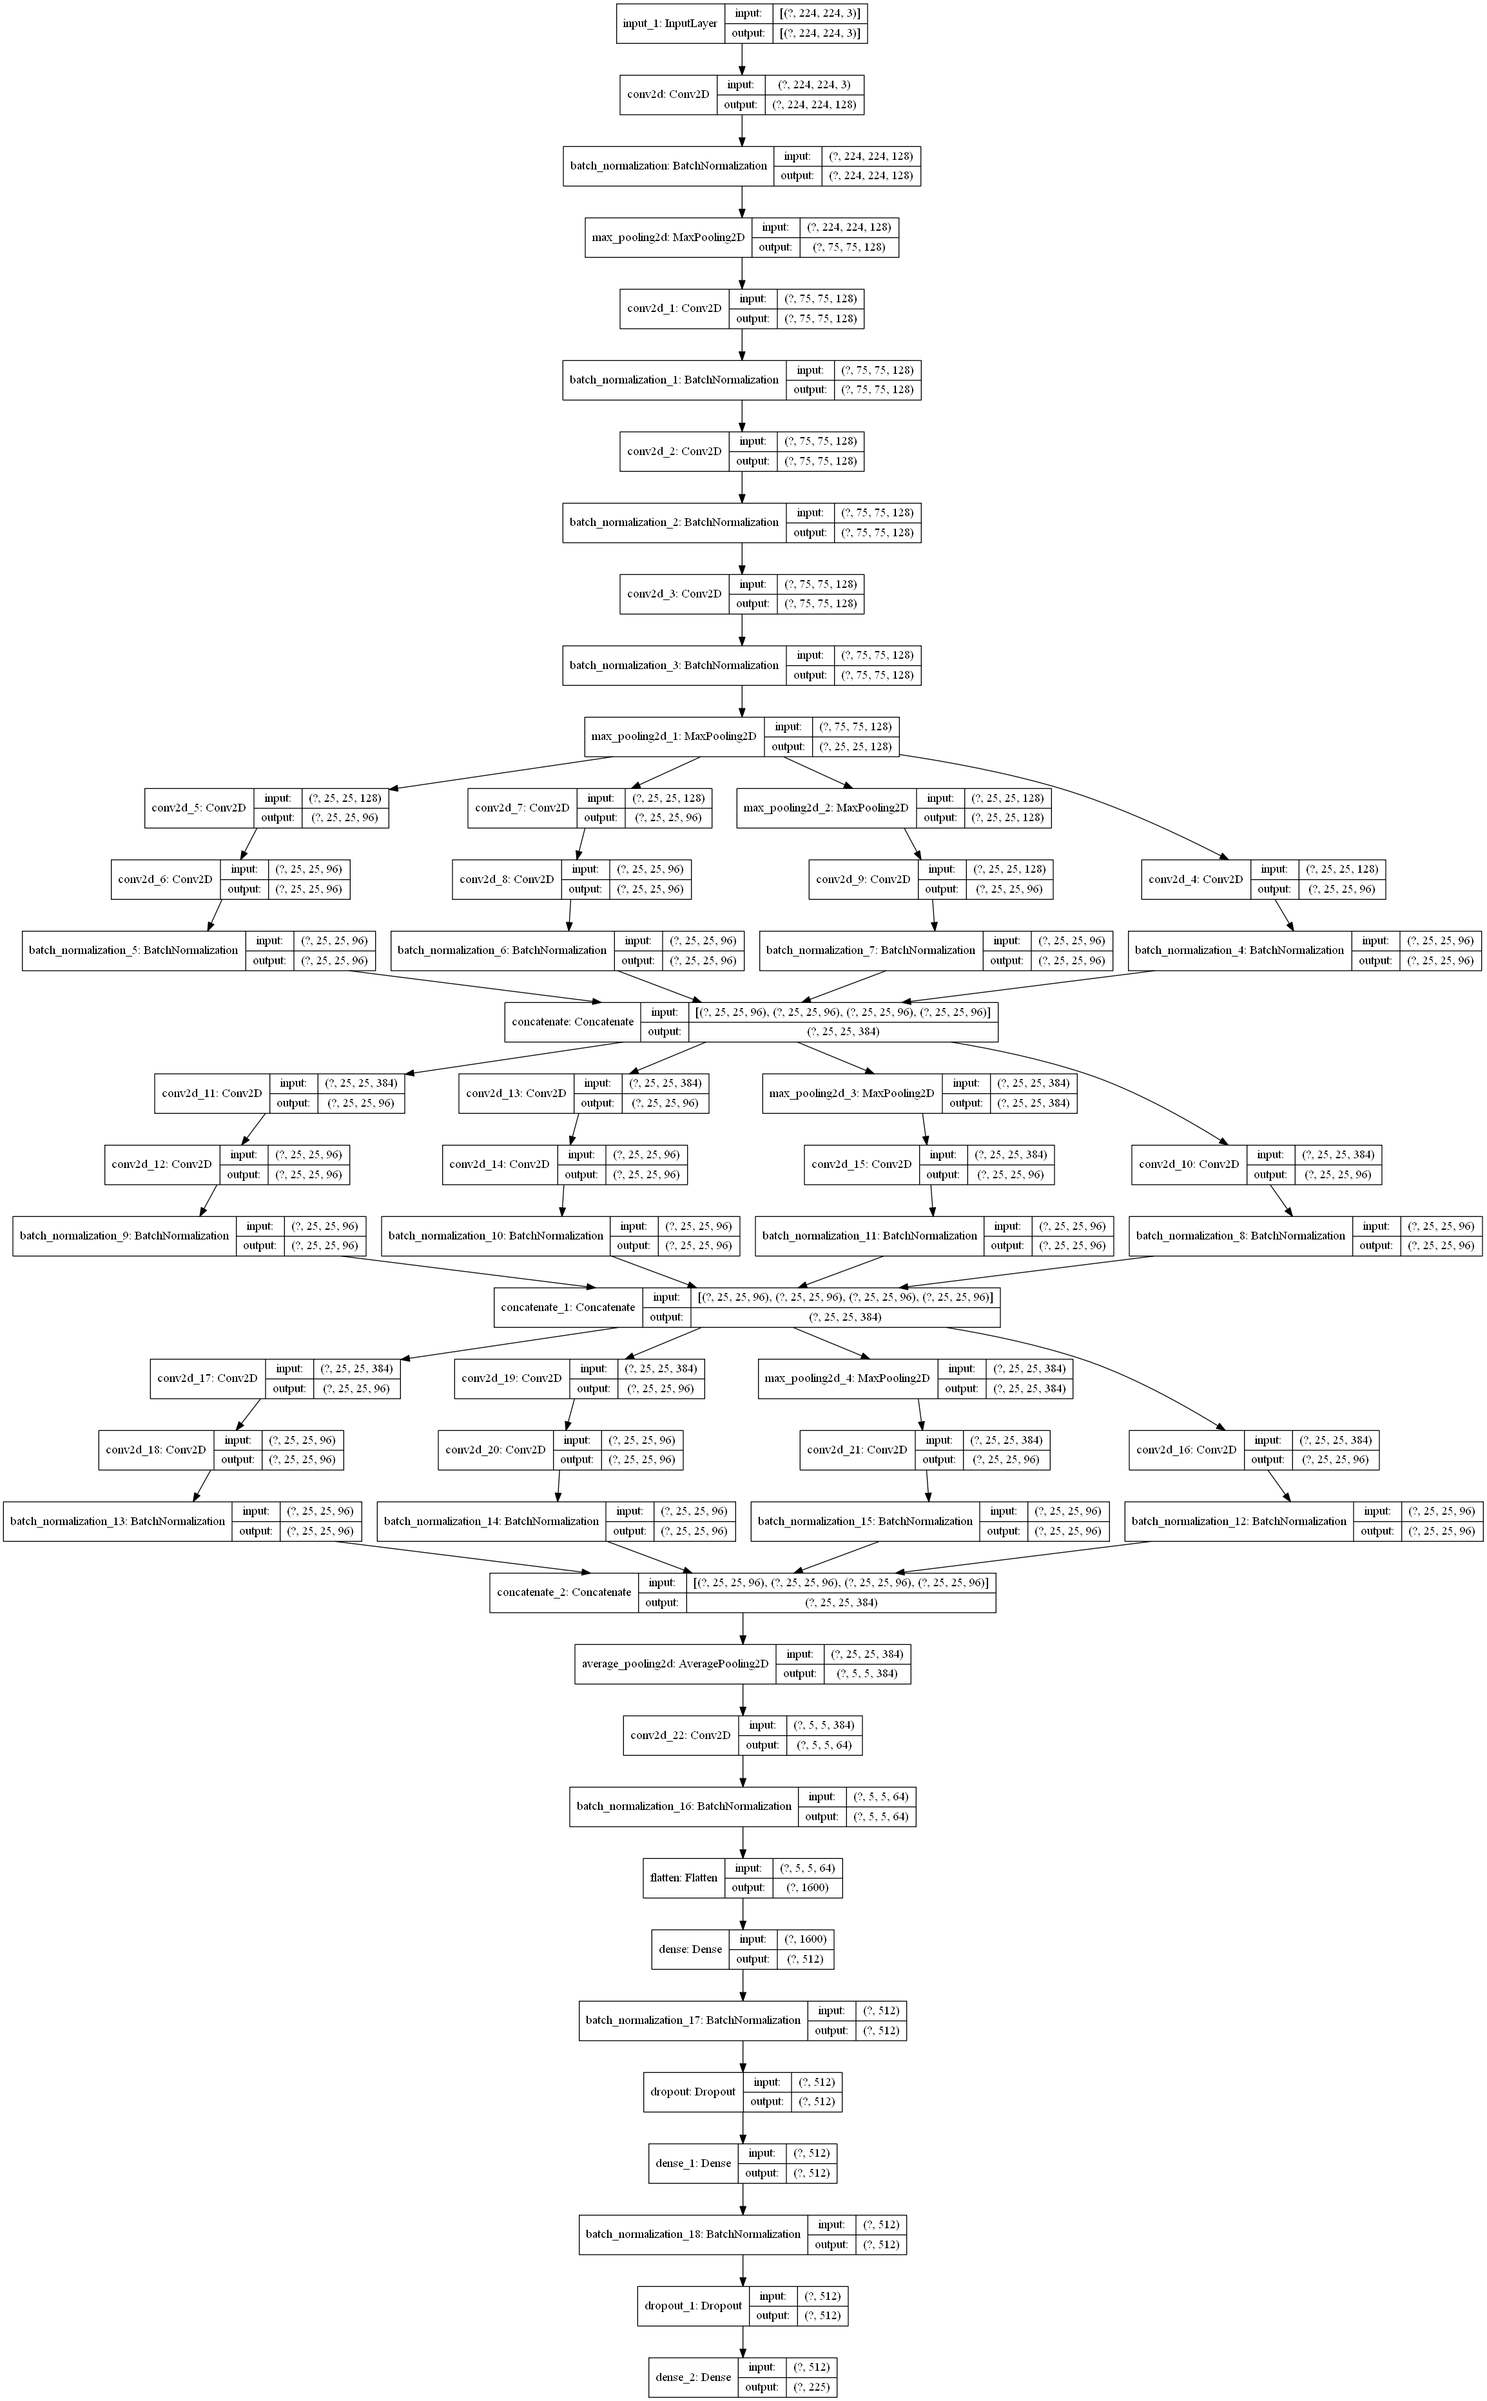
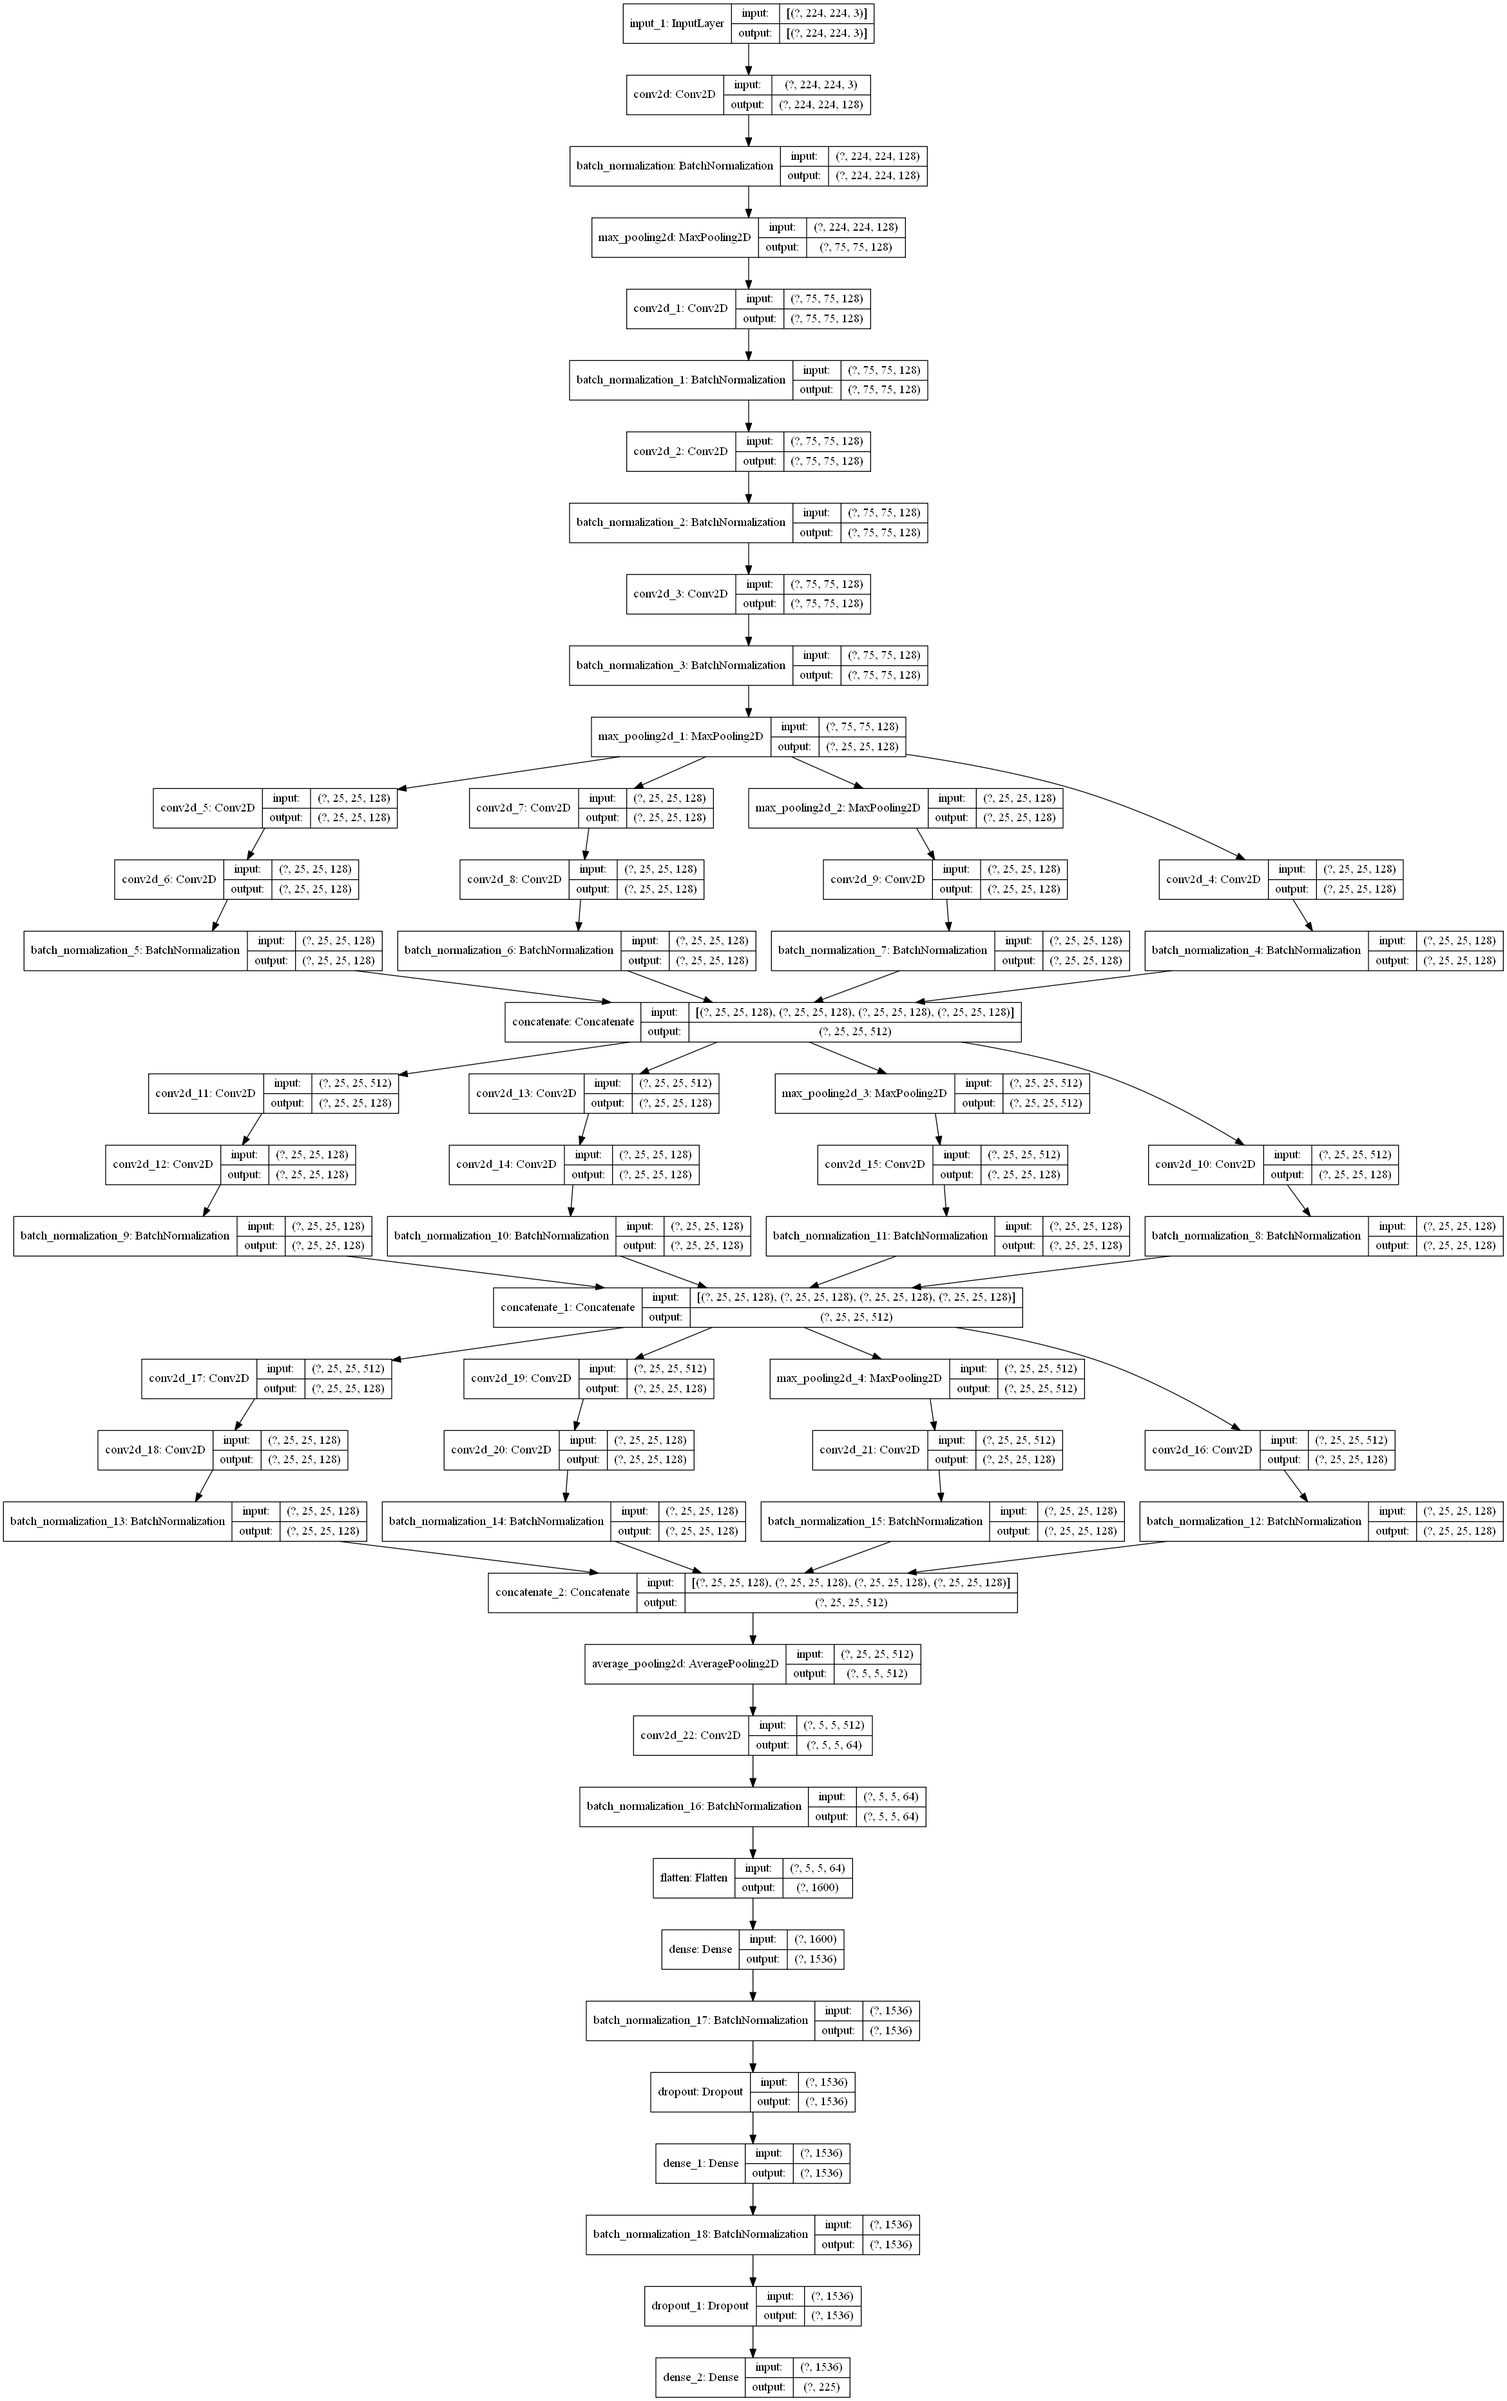
trained model after Hyperband tuning

diff --git a/BirdClassifier.py b/BirdClassifier.py
@@ -231,74 +231,7 @@ def plotLossAccHistory(history):
     axis[1].legend(loc='upper right')
 
     plt.show()
-    
-"""  
-#--model structure---------------------------------------------------------------------------------
-img_input = keras.Input(shape=(224, 224, 3))
 
-conv_block_1 = convBlock(img_input, filters=32, kernel_size=(7, 7), num_layers=1, max_pooling=True)
-conv_block_2 = convBlock(conv_block_1, filters=32, kernel_size=(1, 1), num_layers=1, padding='valid')
-conv_block_3 = convBlock(conv_block_2, filters=32, num_layers=2, max_pooling=True)
-
-inception_block_1 = inceptionBlock(conv_block_3, filters=64)
-inception_block_2 = inceptionBlock(inception_block_1, filters=64)
-inception_block_3 = inceptionBlock(inception_block_2, filters=64)
-
-average_pool = AveragePooling2D(pool_size=(5, 5))(inception_block_3)
-
-conv_block_4 = convBlock(average_pool, filters=128, kernel_size=(3, 3), num_layers=1)
-
-flatten = Flatten()(conv_block_4)
-dense_block1 = denseBlock(flatten, units=2000, dropout_rate=0.7, num_layers=2)
-output = Dense(225)(dense_block1)
-#--------------------------------------------------------------------------------------------------
-
-#model = Model(inputs=img_input, outputs=output)
-model = tf.keras.models.load_model('',compile=False)
-
-model.summary()
-plot_model(model, to_file='model.png', show_shapes=True)
-
-opt = tf.keras.optimizers.Adam(learning_rate=0.001)
-#opt = tf.keras.optimizers.SGD(learning_rate=0.001, momentum=0.9)
-
-def decayLearningRate(epoch, learning_rate):
-    decay = 0.9
-    steps_per_decay = 3
-    if epoch % steps_per_decay == 0:
-        return learning_rate * decay
-    return learning_rate
-
-model.compile(
-    optimizer=opt,
-    loss=tf.keras.losses.CategoricalCrossentropy(from_logits=True),
-    metrics='accuracy')
-
-early_stop = EarlyStopping(monitor='val_loss', patience=20)
-model_save = ModelCheckpoint('', save_best_only=True)
-#learning_rate_schedule = LearningRateScheduler(decayLearningRate, verbose=1)
-learning_rate_schedule = ReduceLROnPlateau(monitor='val_loss',
-                                           factor=0.5,
-                                           patience=10,
-                                           verbose=1,
-                                           min_lr=1e-5)
-
-TRAIN_STEP_SIZE = n_train//train_gen.batch_size
-VALID_STEP_SIZE = n_valid//valid_gen.batch_size
-
-history = model.fit(
-          x=train_gen,
-          steps_per_epoch=TRAIN_STEP_SIZE,
-          epochs=1000,
-          callbacks=[early_stop, model_save, learning_rate_schedule],
-          validation_data=valid_gen,
-          validation_steps=VALID_STEP_SIZE)
- 
-model.evaluate(
-    valid_gen,
-    steps=VALID_STEP_SIZE,
-    verbose=2)
-"""
 INPUT_SHAPE = (224, 224, 3)
 NUM_CLASSES = 225
 
@@ -341,6 +274,8 @@ print('dropout rate: ', best_hps.get('dropout_rate'))
 
 model = tuner.hypermodel.build(best_hps)
 
+#model = keras.models.load_model('')
+
 model.summary()
 plot_model(model, to_file='model.png', show_shapes=True)
 
@@ -348,6 +283,7 @@ history = model.fit(
           x=train_gen,
           steps_per_epoch=TRAIN_STEP_SIZE,
           epochs=1000,
+          verbose=2,
           callbacks=[early_stop, model_save, learning_rate_schedule],
           validation_data=valid_gen,
           validation_steps=VALID_STEP_SIZE)

diff --git a/BirdPredictor.py b/BirdPredictor.py
@@ -29,7 +29,7 @@ test_gen = test_datagen.flow_from_directory(
     shuffle=False)
 TEST_STEP_SIZE = test_gen.n//test_gen.batch_size
 
-model = tf.keras.models.load_model('',compile=True)
+model = tf.keras.models.load_model('', compile=True)
 
 model.evaluate(
     test_gen,
@@ -66,4 +66,4 @@ def predictImage(filename, model=model, labels=labels):
     pred_class = np.argmax(probs, axis=1)
     return ([labels[k] for k in pred_class], probs[0][pred_class[0]])
     
-print(predictImage('testbird.jpg'))
+print(predictImage('robin2.jpg'))

diff --git a/README.md b/README.md
@@ -9,4 +9,6 @@ I have tried a sequential scaled down version of VGG-16. It achieved a validatio
 A model based off of google's Inception CNN architectures has achieved ~91% validation accuracy with the only image augmentation being random vertical flipping.
 This model has a faster training time than the VGG-16 style one, due to dimensionality reduction from the 1x1 kernel convolutions. I attempt to increase generalisation with more image augmentation in batch generation. The training time on my computer is increased by a factor of around 5, suggesting that the image augmentation itself is a bottleneck. With this extra augmentation the model achieved 93.8% validation and 95.6% test set accuracy.
 
+After tuning the Inception based model's hyperparameters with the Hyperband algorithm, it has 97.2% validation and and 98.2% test accuracy.
+
 In all cases, when experimenting with test set predictions, it appears that the models rely more on edge and shape features rather than colour.
